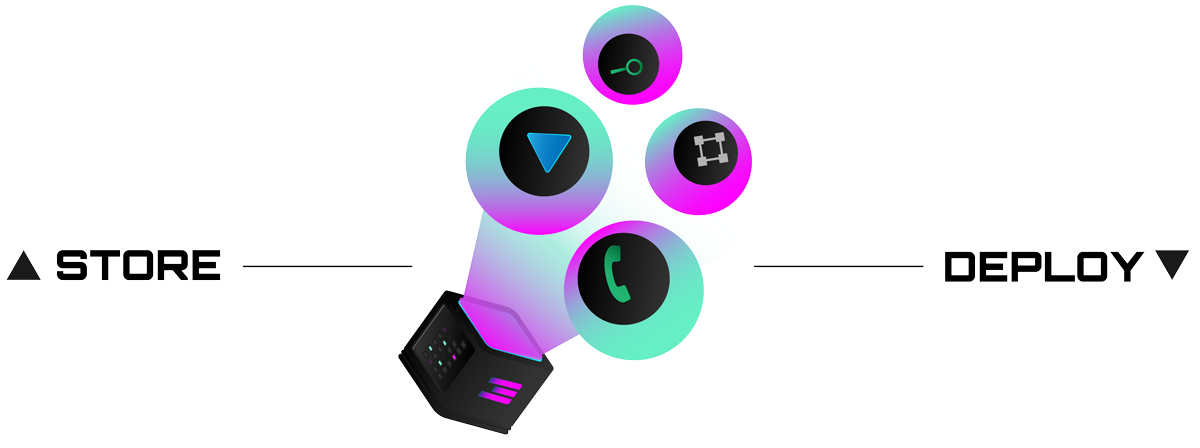
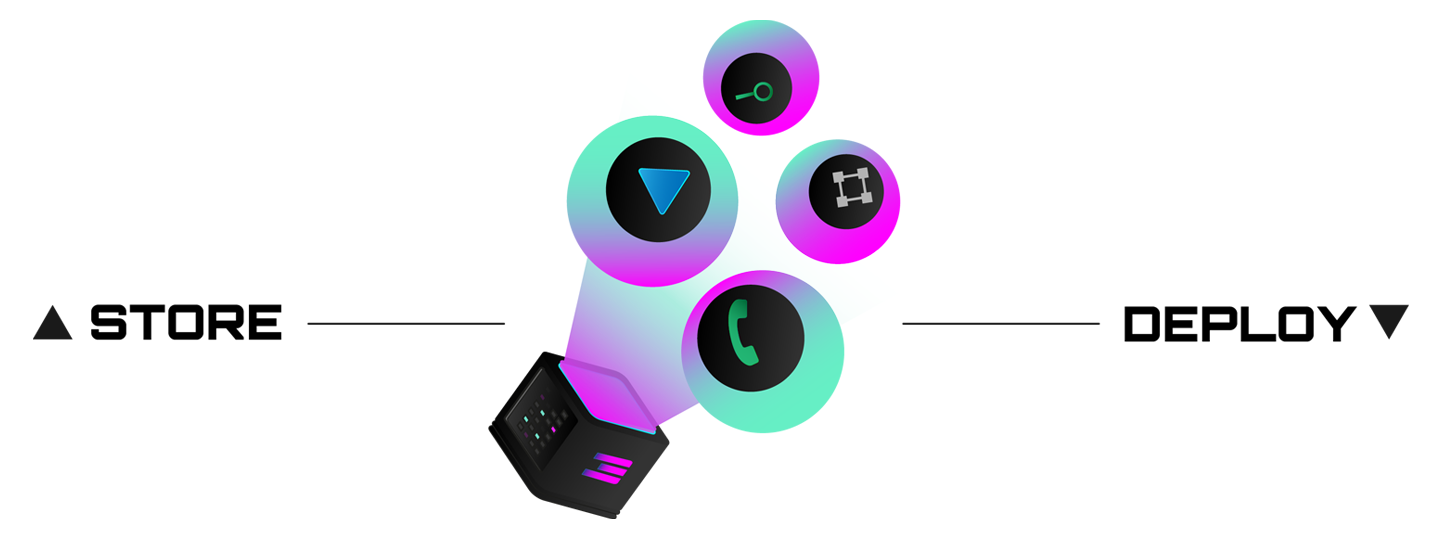
update image

diff --git a/src/components/marketing/sections/cta-sections/BrandPanel.vue b/src/components/marketing/sections/cta-sections/BrandPanel.vue
@@ -58,7 +58,7 @@
         <div class="relative">
           <g-image
             class="inset-0 mx-auto object-cover"
-            :class="{ 'w-2/3': id == 'home', 'w-3/4': id == 'network' }"
+            :class="{ 'w-3/4': id == 'network' }"
             :src="image"
             :alt="brand.title"
           />

diff --git a/src/components/custom/Navbar/Navbar.vue b/src/components/custom/Navbar/Navbar.vue
@@ -22,7 +22,7 @@
           <a href="/" class="flex">
             <g-image
               :src="require(`!!assets-loader!@images/new_cloud_logo.png`)"
-              class="mr-3 fill-current logo"
+              class="mr-3 fill-current"
               alt=""
             />
 

diff --git a/src/components/marketing/sections/cta-sections/Header.vue b/src/components/marketing/sections/cta-sections/Header.vue
@@ -16,7 +16,7 @@
         ></div>
       </div>
       <g-image
-        class="w-3/4 mx-auto order-2 lg:order-none"
+        class="mx-auto order-2 lg:order-none"
         :src="img"
         :alt="altImg"
       />

diff --git a/content/navigation/navigation.md b/content/navigation/navigation.md
@@ -1,7 +1,10 @@
 ---
 id: navigation
 navLinks:
-
+  - name: Home
+    link: /
+    external: false
+    expandable: false                                                                                                                                                                 
   - name: Compute
     link: /compute
     external: false
